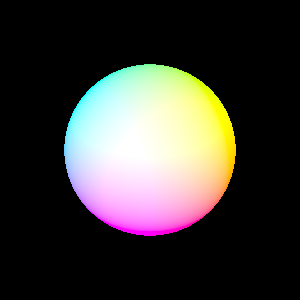
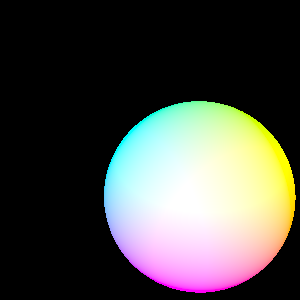
more stuff working yay

diff --git a/ray1.2/src/ray/surface/Ellipsoid.java b/ray1.2/src/ray/surface/Ellipsoid.java
@@ -34,7 +34,8 @@ public class Ellipsoid extends Surface {
 	protected final Vector3 cAxis = new Vector3(0, 0, 1);
 	public void setCAxis(Vector3 cAxis) { this.cAxis.set(cAxis); this.cAxis.normalize(); }
     
-	//TODO: this
+	//TODO: make this work for rotated ellipsoids
+	//? or does that occur in computeRayDirection
     @Override
     public HitRecord hit(Ray ray, double t0, double t1) 
 	{
@@ -50,16 +51,25 @@ public class Ellipsoid extends Surface {
 		//x,y,z = coords on ellipse (ray)
 		//a,b,c = x,y,z axis length respectfully
 		
-		//todo do calculations for when ellipse is not a perfect sphere?
-		double a = 1;
-		double b = 1;
-		double c = 1;
+		//where min and max are the bounding coords of a box around the ellipsoid
+		double xMin = center.x - a;
+		double xMax = center.x + a;
+		double yMin = center.y - b;
+		double yMax = center.y + b;
+		double zMin = center.z - c;
+		double zMax = center.z + c;
+		setA((xMax - xMin) / 2.0);
+		setB((yMax - yMin) / 2.0);
+		setC((zMax - zMin) / 2.0);
 		
 		//calc quadratic equation coefficents
-		double A = d.x * d.x / a * a + d.y * d.y / b * b + d.z * d.z / c * c;
-		double B = 2 * (o.x * d.x / a * a + o.y * d.y / b * b + o.z * d.z / c * c);
-		double C = o.x * o.x / a * a + o.y * o.y / b * b + o.z * o.z / c * c - 1;
-
+		// double A = d.x * d.x / a * a + d.y * d.y / b * b + d.z * d.z / c * c;
+		// double B = 2 * (o.x * d.x / a * a + o.y * d.y / b * b + o.z * d.z / c * c);
+		// double C = o.x * o.x / a * a + o.y * o.y / b * b + o.z * o.z / c * c - 1;
+		double A = d.x * d.x / (a * a) + d.y * d.y / (b * b) + d.z * d.z / (c * c);
+		double B = 2 * (d.x * (o.x - center.x) / (a * a) + d.y * (o.y - center.y) / (b * b) + d.z * (o.z - center.z) / (c * c));
+		double C = (o.x - center.x) * (o.x - center.x) / (a * a) + (o.y - center.y) * (o.y - center.y) / (b * b) + (o.z - center.z) * (o.z - center.z) / (c * c) - 1;
+		
 		//solve quadratic for t
 		double[] roots = solveQuadratic(A, B, C);
 
@@ -71,11 +81,19 @@ public class Ellipsoid extends Surface {
 				Point3 intersectionPoint = ray.evaluate(root);
 				
 				//calc normal
+				// Vector3 normal = new Vector3(
+                //     2 * intersectionPoint.x / (a * a),
+                //     2 * intersectionPoint.y / (b * b),
+                //     2 * intersectionPoint.z / (c * c)
+            	// );
+
 				Vector3 normal = new Vector3(
-                    2 * intersectionPoint.x / (a * a),
-                    2 * intersectionPoint.y / (b * b),
-                    2 * intersectionPoint.z / (c * c)
+                2 * (intersectionPoint.x - center.x) / (a * a),
+                2 * (intersectionPoint.y - center.y) / (b * b),
+                2 * (intersectionPoint.z - center.z) / (c * c)
             	);
+
+				normal.normalize();
 
 				// return the hit
 				hit.set(this, root, normal);
